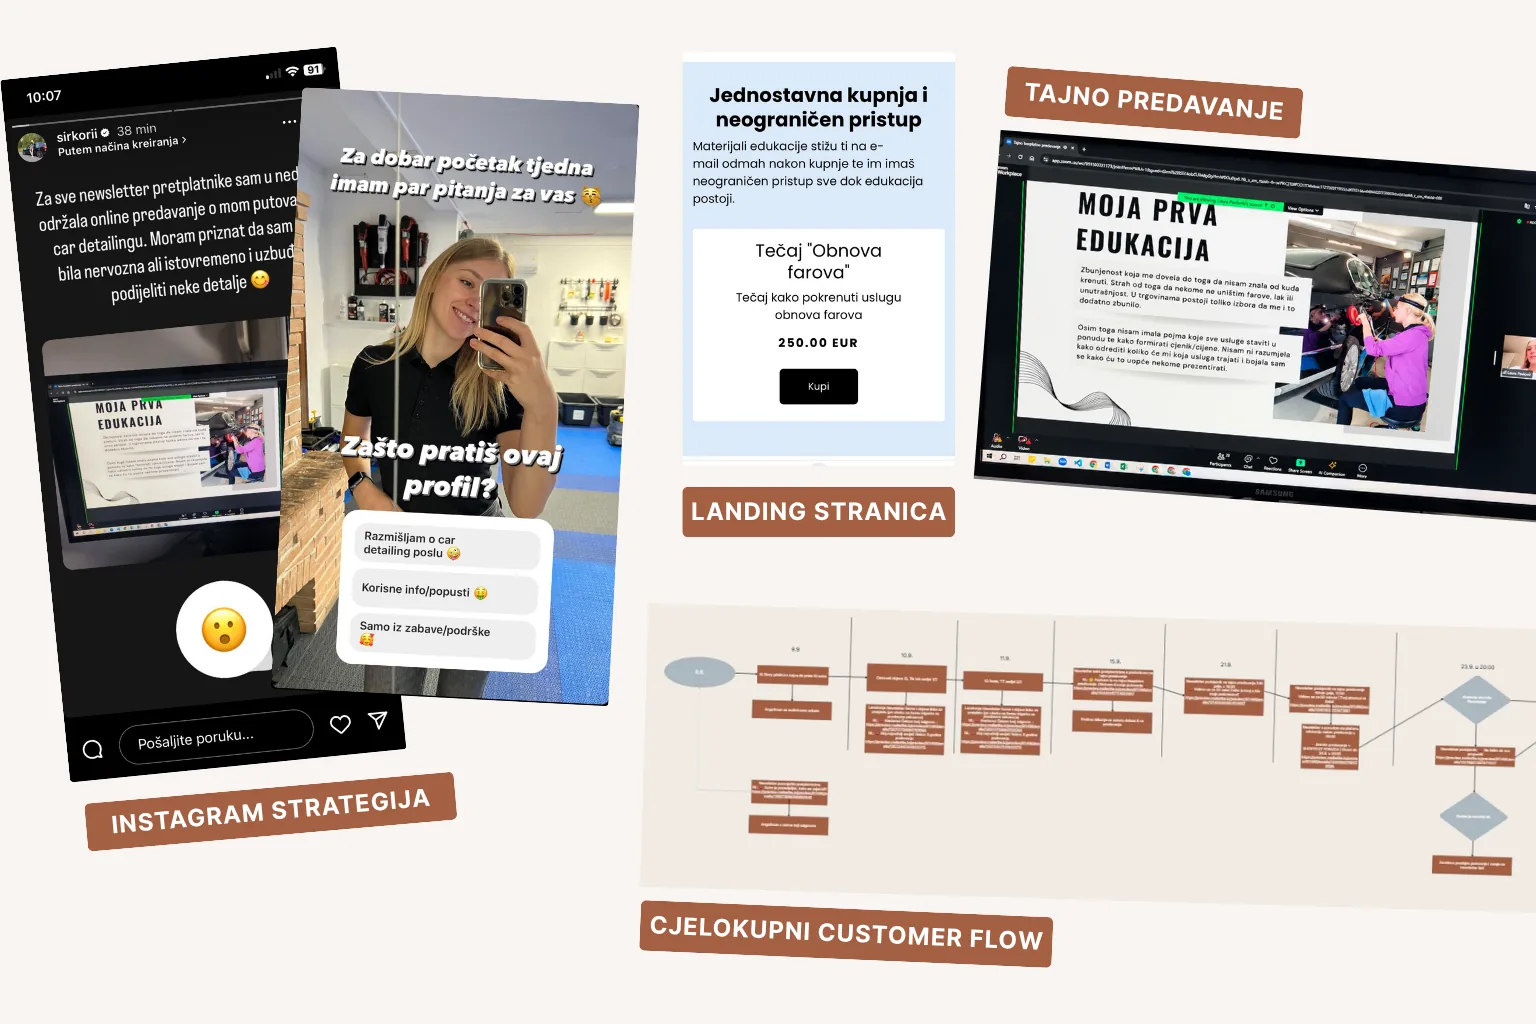
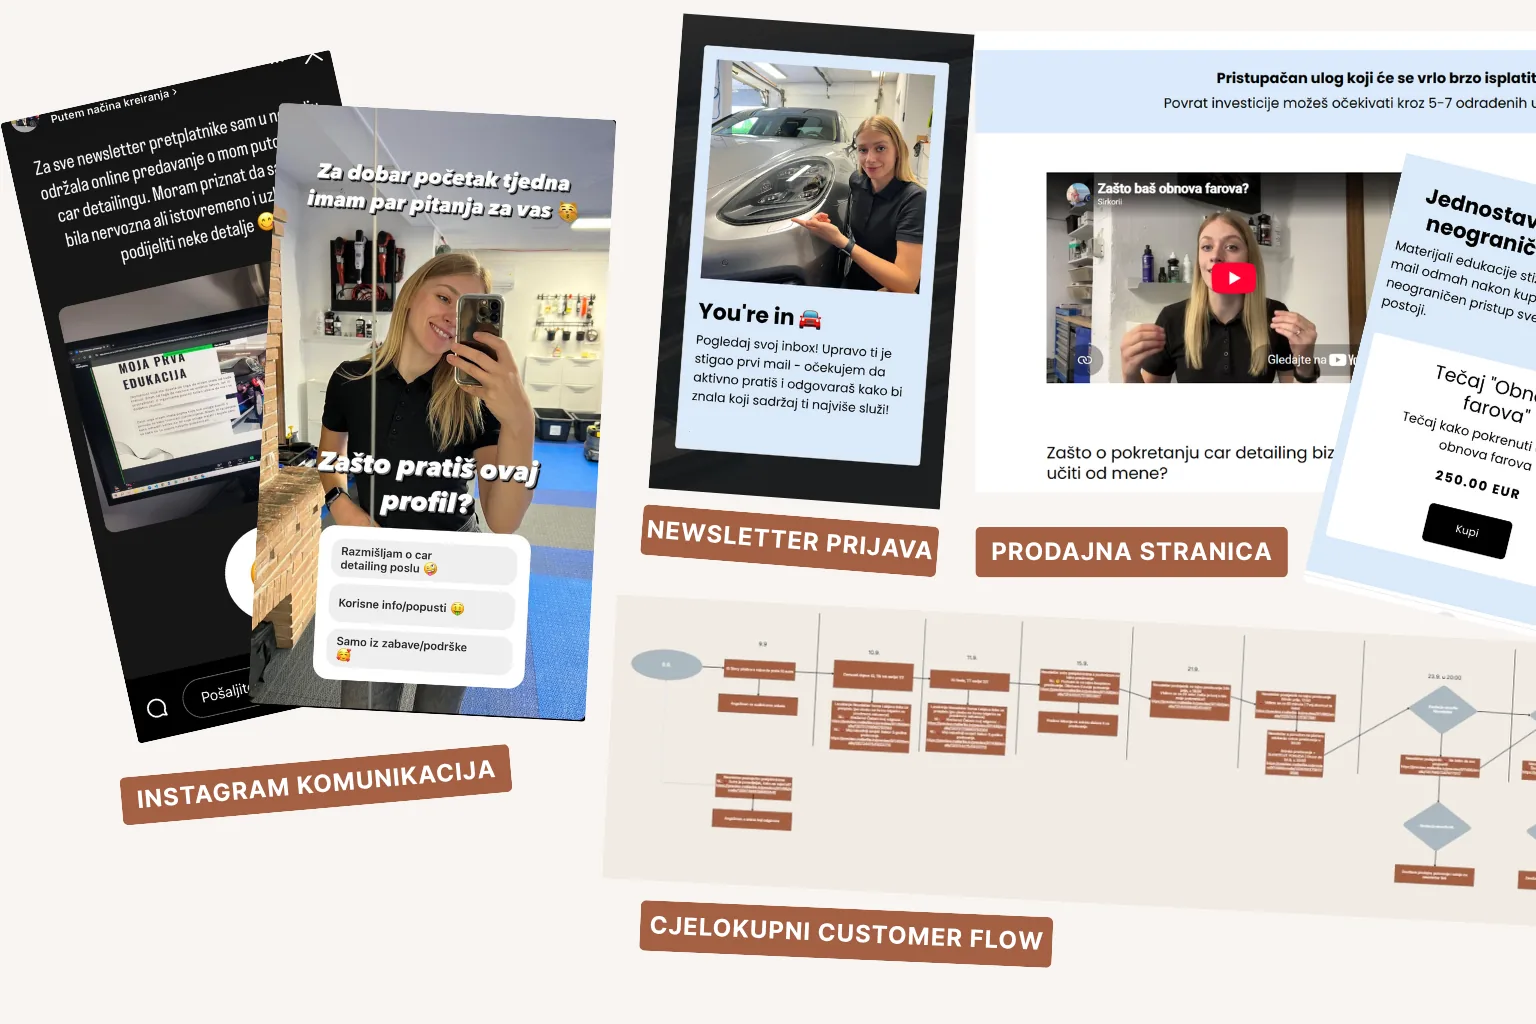
Newsletter case study: makni Sirkorii iz naslova, novi kolaž.

diff --git a/newsletter-sustav/index.html b/newsletter-sustav/index.html
@@ -345,13 +345,7 @@
             <div class="nl-case__intro">
               <p class="section-label">// case study</p>
               <h2 id="case-title" class="nl-case__title">
-                <a
-                  href="https://www.instagram.com/sirkorii/"
-                  rel="noopener noreferrer"
-                  target="_blank"
-                  >sirkorii</a
-                >
-                - lansiranje online programa
+                lansiranje online programa
               </h2>
               <p>
                 Za lansiranje online programa aktivirale smo postojeću newsletter publiku,
@@ -395,7 +389,7 @@
                   />
                   <img
                     src="../assets/images/newsletter/sirkorii-collage.jpg"
-                    alt="Sirkorii: Instagram strategija, landing stranica, tajno predavanje i customer flow"
+                    alt="Lansiranje online programa: Instagram komunikacija, newsletter prijava, prodajna stranica i customer flow"
                     width="1536"
                     height="1024"
                     loading="lazy"
